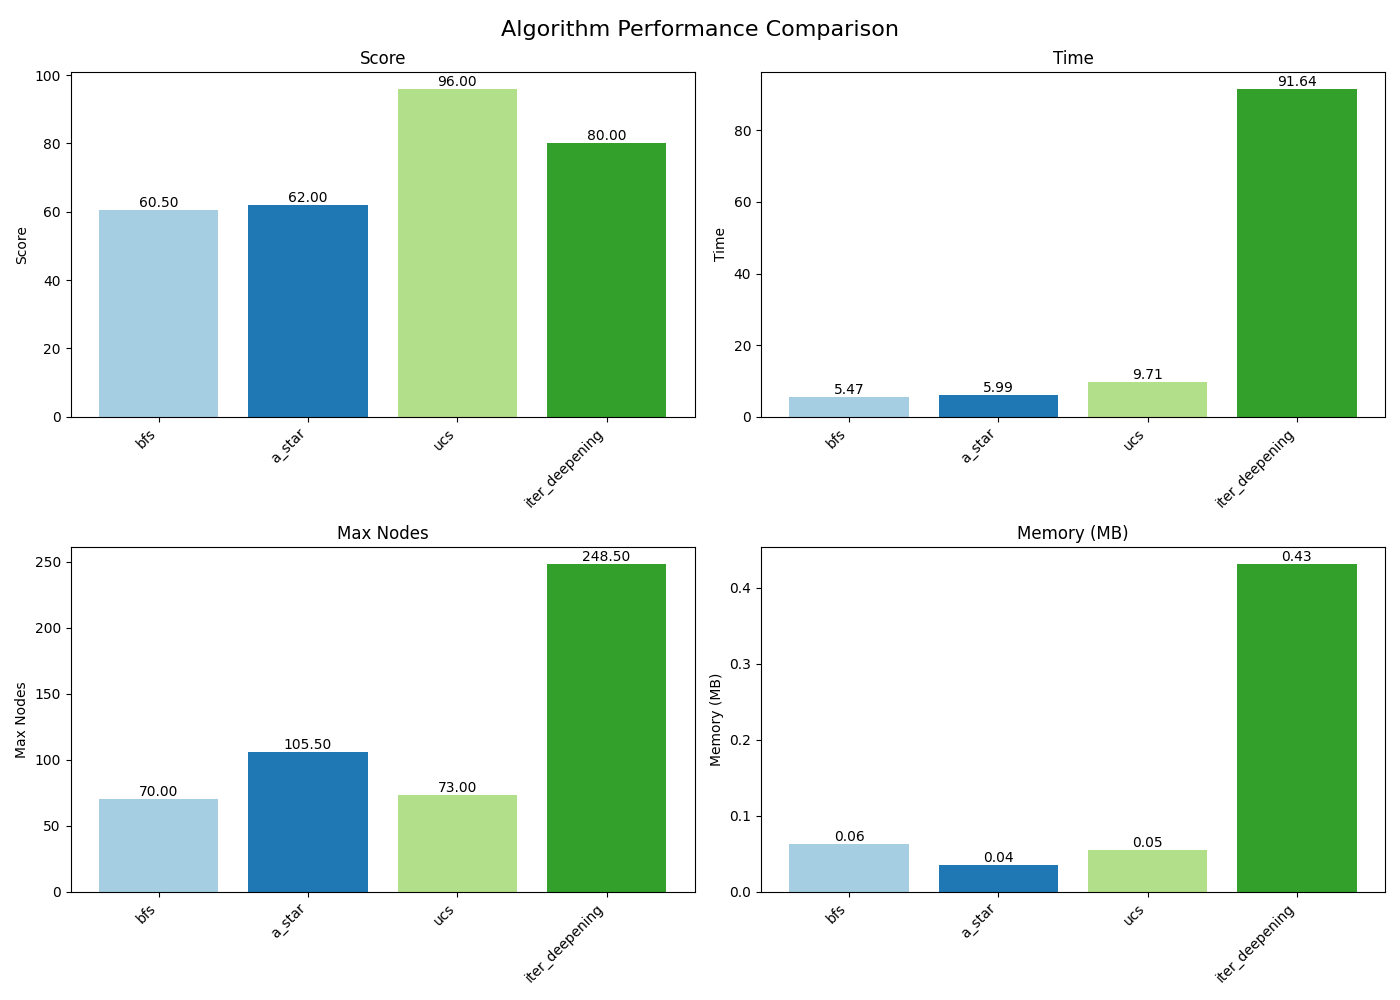
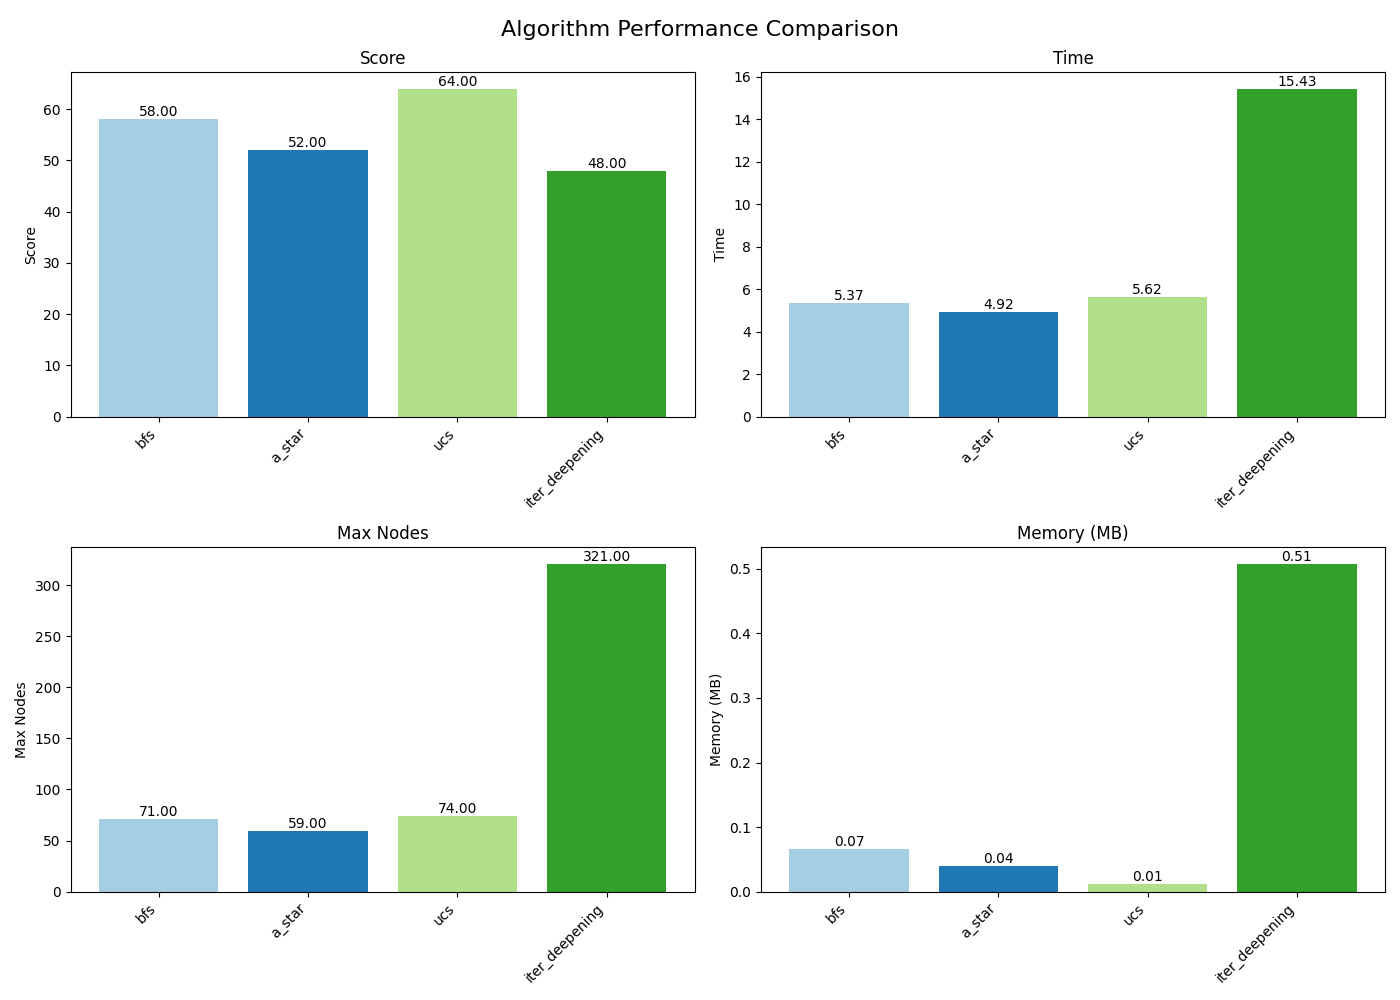
small spacing fixes for the print statements in main.py

diff --git a/snake_search.py b/snake_search.py
@@ -1,5 +1,5 @@
 import heapq
-from collections import deque, defaultdict
+from collections import deque
 from snake_game import UP, DOWN, LEFT, RIGHT, GRID_WIDTH, GRID_HEIGHT
 
 class Snake_AI:
@@ -11,7 +11,7 @@ class Snake_AI:
     def bfs(game):
         start = game.snake[0]
         target = game.food
-        # Initializes a double-ended queue with the start position and an empty path
+        # Initializes a double-ended queue with the start position and an empty path (FIFO)
         queue = deque([(start, [])])
         visited = set()
         max_nodes = 0
@@ -42,7 +42,7 @@ class Snake_AI:
     def a_star(game):
         start = game.snake[0]
         target = game.food
-        open_list = [(0, start)]  # Priority queue: (f_score, position)
+        open_list = [(0, start)]  # Priority queue: (f_score, position) 
         g_score = {start: 0}  # Cost to reach each node
         came_from = {}  # To reconstruct the path
         visited = set()

diff --git a/main.py b/main.py
@@ -103,7 +103,7 @@ def main(algorithms, num_simulations=1):
             
     print("\n \t\t\t---Simulation Results---")
     print(f"{'Algorithm':<18}{'Avg Score':<15}{'Avg Time':<13}{'Avg Max Nodes':<17}{'Avg Memory Use (MB)':<14}")
-    print("-" * 100)
+    print("-" * 90)
 
     # Print the average score and time for each algorithm
     for alg, data in results.items():
@@ -118,5 +118,5 @@ def main(algorithms, num_simulations=1):
     return results
 
 if __name__ == "__main__":
-    results = main([snk_s.Snake_AI.bfs, snk_s.Snake_AI.a_star, snk_s.Snake_AI.ucs,snk_s.Snake_AI.iter_deepening], num_simulations=2)
+    results = main([snk_s.Snake_AI.bfs, snk_s.Snake_AI.a_star, snk_s.Snake_AI.ucs,snk_s.Snake_AI.iter_deepening], num_simulations=3)
     plt.plot_results(results)

diff --git a/snake_game.py b/snake_game.py
@@ -17,8 +17,8 @@ BLUE = (0, 0, 255)
 YELLOW = (255, 255, 0)
 
 # Directions
-UP = (0, -1)
-DOWN = (0, 1)
+UP = (0, 1)
+DOWN = (0, -1)
 LEFT = (-1, 0)
 RIGHT = (1, 0)
 
